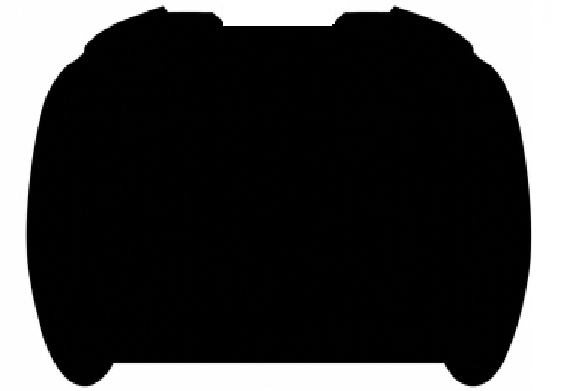
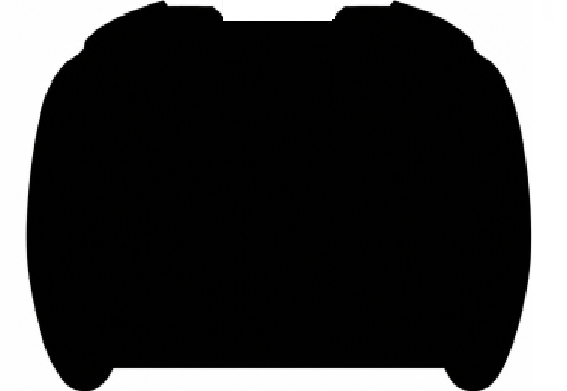
[pushing latest effects.

diff --git a/device_api.js b/device_api.js
@@ -67,7 +67,9 @@ const connBtn = document.getElementById("connBtn");         //html element
 const status = document.getElementById("status");           //html element
 const devName = document.getElementById("devName");         //html element
 const controller = document.getElementById("controller");   //html element
- 
+let EDGE_SIZE = 20;
+let EDGE_DARK = .65;
+		
 init();
 
 async function sendManualReport()
@@ -382,9 +384,7 @@ async  function cleanUpSelection( dev )
 	hid.device = dev;
 }
 
-
-
-function makeControllerImage (baseImage, fill)
+function makeControllerImage(baseImage, fill)
 {
 	controller._bg.replaceChildren();
 
@@ -392,17 +392,14 @@ function makeControllerImage (baseImage, fill)
 	controller._bg.appendChild(canvas);
 	let ctx = canvas.getContext("2d", { willReadFrequently: true });
 	let controllerImg = new Image();
-	
-	controllerImg.onerror = () =>
-	{
-		alert(`Failed to load controller image:\ncontroller_images/${baseImage}.png`);
-	};
- 
+
+	controllerImg.onerror = () => { alert(`Failed to load controller image:\ncontroller_images/${baseImage}.png`); };
 	controllerImg.src = `controller_images/${baseImage}.png`;
 
 	Promise.all([
 		new Promise(resolve => { if (controllerImg.complete) resolve(); else controllerImg.onload = resolve; }),
-		new Promise(resolve =>	{ if (fill.complete) resolve(); else fill.onload = resolve;	})	]).then(() =>
+		new Promise(resolve => { if (fill.complete) resolve(); else fill.onload = resolve; })
+	]).then(() =>
 	{
 		canvas.style.position = "absolute";
 		canvas.style.left = "0px";
@@ -411,31 +408,97 @@ function makeControllerImage (baseImage, fill)
 		canvas.width = controller.clientWidth;
 		canvas.height = controller.clientHeight;
 
-		ctx.drawImage(controllerImg, 0, 0, canvas.width, canvas.height );// Draw controller image first
-		let controllerData = ctx.getImageData( 0, 0, canvas.width, canvas.height);// Get controller pixels
-		ctx.drawImage( fill, 0, 0, canvas.width, canvas.height );// Draw texture
-		let textureData = ctx.getImageData( 0, 0, canvas.width, canvas.height );
+		ctx.drawImage(controllerImg, 0, 0, canvas.width, canvas.height);
+
+		let controllerData = ctx.getImageData(0, 0, canvas.width, canvas.height);
+		let mask = new Uint8ClampedArray(controllerData.data);
+
+		ctx.drawImage(fill, 0, 0, canvas.width, canvas.height);
+		let textureData = ctx.getImageData(0, 0, canvas.width, canvas.height);
+
 
 		// Replace black areas with texture
 		for (let i = 0; i < controllerData.data.length; i += 4)
 		{
-			let r = controllerData.data[i];
-			let g = controllerData.data[i + 1];
-			let b = controllerData.data[i + 2];
-
-			// black pixel
-			if (r < 50 && g < 50 && b < 50)
+			if (mask[i] < 50 && mask[i + 1] < 50 && mask[i + 2] < 50)
 			{
-				controllerData.data[i]     = textureData.data[i];
+				controllerData.data[i] = textureData.data[i];
 				controllerData.data[i + 1] = textureData.data[i + 1];
 				controllerData.data[i + 2] = textureData.data[i + 2];
 			}
 		}
 
-		// Put final image back
+		let w = canvas.width;
+		let h = canvas.height;
+		let distance = new Uint16Array(w * h);
+		distance.fill(999);
+
+
+		// Find outside pixels
+		for (let y = 0; y < h; y++)
+		{
+			for (let x = 0; x < w; x++)
+			{
+				let i = (y * w + x) * 4;
+
+				if (mask[i] > 200 && mask[i+1] > 200 && mask[i+2] > 200)
+					distance[y * w + x] = 0;
+			}
+		}
+
+
+		// Forward pass
+		for (let y = 1; y < h; y++)
+		{
+			for (let x = 1; x < w; x++)
+			{
+				let p = y * w + x;
+				distance[p] = Math.min(distance[p], distance[p-1] + 1, distance[p-w] + 1);
+			}
+		}
+
+
+		// Backward pass
+		for (let y = h - 2; y >= 0; y--)
+		{
+			for (let x = w - 2; x >= 0; x--)
+			{
+				let p = y * w + x;
+				distance[p] = Math.min(distance[p], distance[p+1] + 1, distance[p+w] + 1);
+			}
+		}
+
+		// Apply rounded edge shading
+		for (let y = 0; y < h; y++)
+		{
+			for (let x = 0; x < w; x++)
+			{
+				let p = y * w + x;
+				let i = p * 4;
+
+				if (!(mask[i] < 50 && mask[i+1] < 50 && mask[i+2] < 50))
+					continue;
+
+				let d = distance[p];
+
+				if (d < EDGE_SIZE)
+				{
+					let t = d / EDGE_SIZE;
+					let shade = EDGE_DARK + (1 - EDGE_DARK) * Math.pow(t, 3);
+
+					controllerData.data[i] *= shade;
+					controllerData.data[i+1] *= shade;
+					controllerData.data[i+2] *= shade;
+				}
+			}
+		}
+
+
 		ctx.putImageData(controllerData, 0, 0);
 	});
 }
+
+
 function isBootloader(d)
 {
     return d.vendorId === 0x04FB;
@@ -522,7 +585,19 @@ async  function init()
 	}
 	controllerSelect.value = currentController;
 	loadControllerLayout(currentController);
-		
+	
+	document.getElementById("edge").onkeyup   = (event) =>
+	{
+		EDGE_SIZE = Number(document.getElementById("edge").value);
+		loadControllerLayout(currentController);
+	}
+	
+	document.getElementById("dark").onkeyup   = (event) =>
+	{
+		EDGE_DARK = Number(document.getElementById("dark").value);
+		loadControllerLayout(currentController);
+	}
+	
 	connBtn.onclick = async () =>
 	{
 		try

diff --git a/bliss_box_api.js b/bliss_box_api.js
@@ -58,7 +58,7 @@
 	if (id == 127) return "PSX_JOGCON"	  ;
 	if (id == 52 ) return "FC_NES" 		  ;
 	if (id == 53 ) return "FC_ARKANOID" ;
-	if (id == 54 ) return "TG16_6BUTTON";
+	if (id == 54 ) return "PCEngine";
 	if (id == 55 ) return "WII_DRUM"     ;
 	if (id == 56 ) return "ARCADE"		  ;
 	if (id == 57 ) return "SUPERGUN"	;

diff --git a/index.html b/index.html
@@ -94,6 +94,8 @@ Bliss-Box LLC reserves all legal rights and remedies. Bliss-Box® and the Bliss-
 		DeviceBuddy v1.001 
 		<button id="connBtn">Connect Device</button>
 		<button id="fillColor">Select fill for controller image</button>
+		Edge Fill<input type="text" id="edge" value="20">
+		Edge shadow<input type="text" id="dark" value=".65">
 		<button id="BBUPDATE">Update Bliss-Box Device</button>
     <!-- Main Layout -->
     <div class="layout">